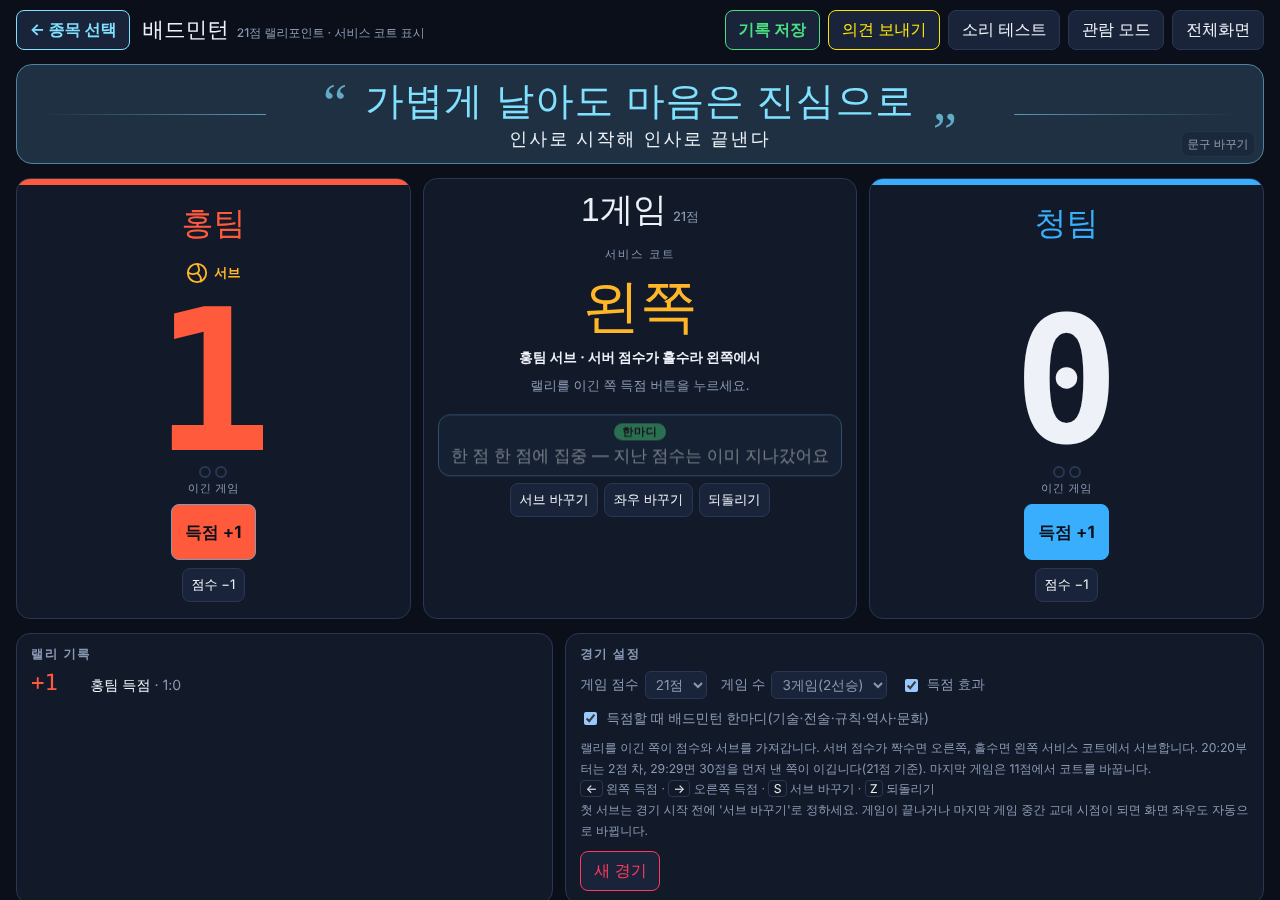
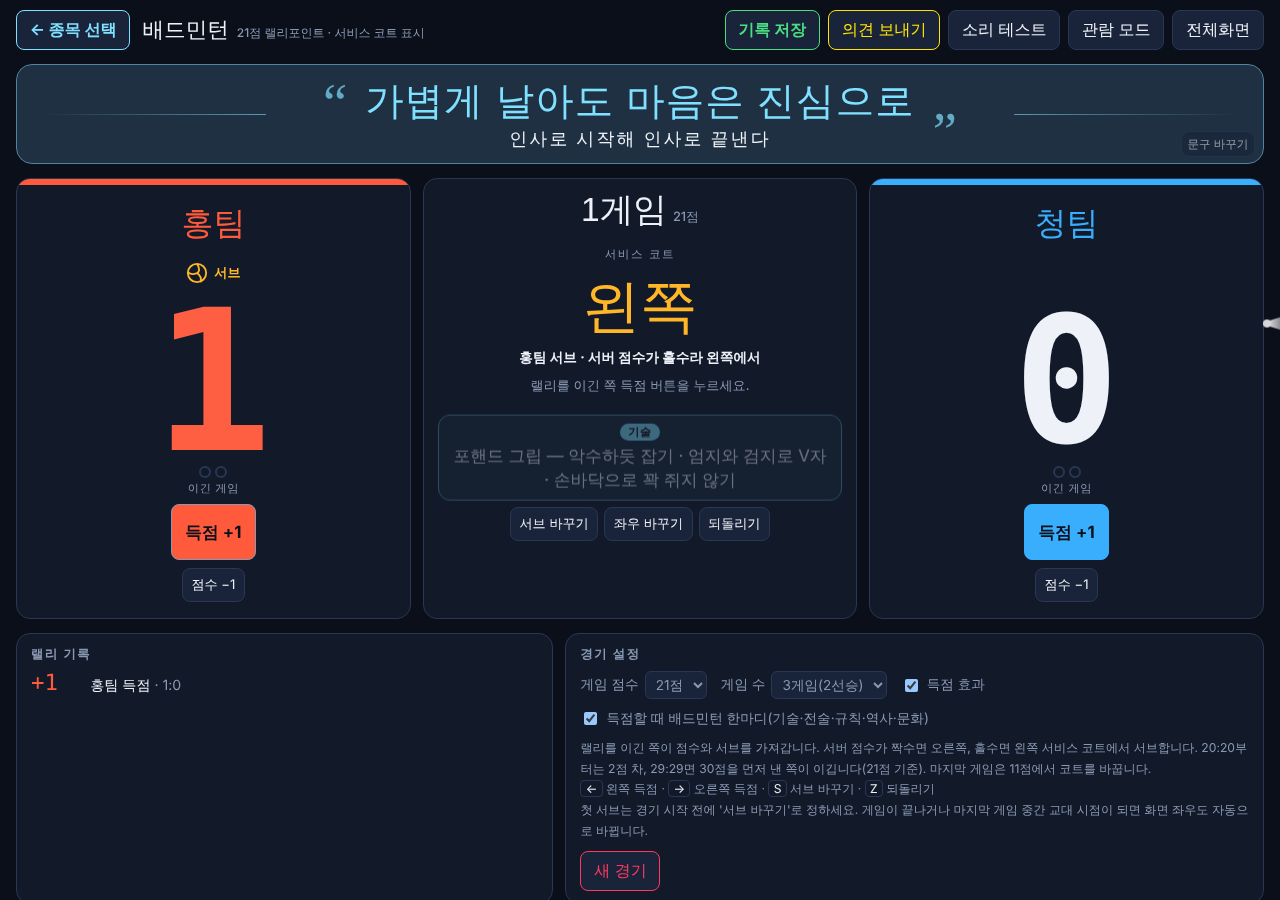
탁구 단체전 모드(기본 단·단·복·단·단, 단식 2경기까지)
Claude-Session: https://claude.ai/code/session_01KAGjHSvNARjSeVjMSGEdbz

Changed region(s): [[0.3438, 0.4667, 0.6562, 0.5911], [0.9688, 0.3422, 1.0, 0.3733]]

diff --git a/index.html b/index.html
@@ -3073,11 +3073,11 @@ return{
 function makeNet(D){
 return {name:D.name,sub:D.sub,color:D.color,
 html:`
-${D.kind==="bd"?'<div class="bdteam" id="bdTeam" hidden></div>':''}
+${D.team?'<div class="bdteam" id="bdTeam" hidden></div>':''}
 <div class="board" id="nboard">
   <section class="team" data-t="0">
     <input class="tname" id="tname0" aria-label="선수 또는 팀 이름">
-    ${D.kind==="bd"?'<div class="tpl" id="tpl0" hidden></div>':''}
+    ${D.team?'<div class="tpl" id="tpl0" hidden></div>':''}
     <div class="serve" id="serve0">${K.SERVE_SVG}<span id="servet0">서브</span></div>
     <div class="score" id="score0">0</div>
     <div class="tmeta"><div class="stat"><div class="dots" id="gm0"></div><span>이긴 게임</span></div></div>
@@ -3091,7 +3091,7 @@ ${D.kind==="bd"?'<div class="bdteam" id="bdTeam" hidden></div>':''}
     <div class="call" id="call"></div>
     <div class="callsub" id="callsub"></div>
     <div class="state" id="state"></div>
-    ${D.kind==="bd"?'<button class="go op" id="bdReveal" type="button" hidden>오더 공개</button>':''}
+    ${D.team?'<button class="go op" id="bdReveal" type="button" hidden>오더 공개</button>':''}
     ${D.tips?K.tipBox("bdTip").replace('class="bdtip"','class="bdtip" style="--tipc:'+D.color+'"'):''}
     <div class="btnrow op">
       <button class="small" id="srvBtn" type="button">서브 바꾸기</button>
@@ -3101,7 +3101,7 @@ ${D.kind==="bd"?'<div class="bdteam" id="bdTeam" hidden></div>':''}
   </section>
   <section class="team" data-t="1">
     <input class="tname" id="tname1" aria-label="선수 또는 팀 이름">
-    ${D.kind==="bd"?'<div class="tpl" id="tpl1" hidden></div>':''}
+    ${D.team?'<div class="tpl" id="tpl1" hidden></div>':''}
     <div class="serve" id="serve1">${K.SERVE_SVG}<span id="servet1">서브</span></div>
     <div class="score" id="score1">0</div>
     <div class="tmeta"><div class="stat"><div class="dots" id="gm1"></div><span>이긴 게임</span></div></div>
@@ -3127,7 +3127,7 @@ ${D.kind==="bd"?'<div class="bdteam" id="bdTeam" hidden></div>':''}
     </div>
   </div>
 </div>
-${D.kind==="bd"?'<div class="box op bdtm" id="bdTm"></div><div class="modal bdom" id="bdOrd" hidden role="dialog" aria-modal="true"><div class="card" id="bdOrdCard"></div></div>':''}`,
+${D.team?'<div class="box op bdtm" id="bdTm"></div><div class="modal bdom" id="bdOrd" hidden role="dialog" aria-modal="true"><div class="card" id="bdOrdCard"></div></div>':''}`,
 init(ctx){
 const $=K.$,R=ctx.root,KEY="pe-"+D.id,esc=K.esc;
 function fresh(cfg,names){
@@ -3146,15 +3146,15 @@ const isFinal=()=>S.gameNo===S.cfg.games;
 const cap=()=>D.kind==="bd"?S.cfg.pts+9:null;
 const sideOut=()=>D.kind==="pb"&&!S.cfg.rally;
 const switchAt=()=>D.kind==="tt"?5:D.kind==="bd"?Math.ceil(S.cfg.pts/2):Math.ceil(S.cfg.pts/2);
-/* ---------- 배드민턴: 한마디 · 단체전 · 비공개 오더 ---------- */
-const BD=D.kind==="bd";
+/* ---------- 득점 한마디 · 단체전 · 비공개 오더 (D.team이 있는 종목: 배드민턴·탁구) ---------- */
+const BD=!!D.team;
 const HASTIP=!!D.tips;
 function showTip(){
   if(!HASTIP||!K[D.tips])return;const box=$("bdTip");
   if(S.cfg.tips===false){box.hidden=true;return;}
   K.tipShow(box,D.id,K[D.tips]);
 }
-function teamNew(){return{on:true,slots:["S","D","S"],rule:"decide",blind:false,reveal:"all",ros:[K.EX10[0].slice(0,6),K.EX10[1].slice(0,6)],ord:[[],[]],sub:[false,false],shown:-1,cur:0,res:[],over:null,rid:null};}
+function teamNew(){return{on:true,slots:D.team.slots.slice(),rule:"decide",blind:false,reveal:"all",ros:[K.EX10[0].slice(0,6),K.EX10[1].slice(0,6)],ord:[[],[]],sub:[false,false],shown:-1,cur:0,res:[],over:null,rid:null};}
 const TM=()=>S.team&&S.team.on?S.team:null;
 const tNeed=T=>Math.floor(T.slots.length/2)+1;
 const tWins=T=>[0,1].map(t=>T.res.filter(r=>r.w===t).length);
@@ -3167,11 +3167,12 @@ function pnames(T,t,i){return ordOf(T,t,i).filter(Boolean).join(" · ");}
 function teamReady(){const T=TM();if(!T)return true;if(T.over)return false;
   if(!filled(T,0,T.cur)||!filled(T,1,T.cur))return T.blind?"두 팀 모두 비공개 오더를 제출해 주세요":"단체전 오더에서 이번 경기 선수를 정해 주세요";
   if(!isShown(T,T.cur))return "오더를 공개해 주세요";return true;}
+const MAXS=(D.team&&D.team.maxS)||1;
 function ordWarn(T,t){
-  const w=[],seen={S:{},D:{}};
+  const w=[],cnt={S:{},D:{}},lim={S:MAXS,D:1};
   T.slots.forEach((k,i)=>{const o=ordOf(T,t,i).filter(Boolean);
     if(k==="D"&&o.length===2&&o[0]===o[1])w.push(slotName(T,i)+"에 같은 선수가 두 번 들어갔어요");
-    o.forEach(n=>{if(seen[k][n])w.push(n+" 선수가 "+(k==="D"?"복식":"단식")+"에 두 번 나와요");seen[k][n]=1;});});
+    o.forEach(n=>{cnt[k][n]=(cnt[k][n]||0)+1;if(cnt[k][n]===lim[k]+1)w.push(n+" 선수가 "+(k==="D"?"복식":"단식")+"에 "+(lim[k]+1)+"번 나와요");});});
   return [...new Set(w)];
 }
 function ordSelects(T,t,i,src,attr){
@@ -3212,7 +3213,7 @@ function drawTeam(){
   }
   const warns=T.blind&&T.shown<0?[]:[0,1].flatMap(t=>ordWarn(T,t).map(w=>S.names[t]+": "+w));
   if(warns.length)h+="<p class=\"bdwarn\">⚠ "+warns.map(esc).join("<br>⚠ ")+"</p>";
-  h+="<p class=\"bdh\">같은 선수가 단식에 두 번, 복식에 두 번 나오면 경고만 보여 줘요(대회 규정에 맞게 조절하세요). 한 경기가 끝나면 결과 창의 '다음 경기'로 넘어가요.</p>";
+  h+="<p class=\"bdh\">같은 선수가 단식에 "+(MAXS+1)+"번 이상, 복식에 2번 이상 나오면 경고만 보여 줘요(대회 규정에 맞게 조절하세요). 한 경기가 끝나면 결과 창의 '다음 경기'로 넘어가요.</p>";
   box.innerHTML=h;
 }
 let draft=null,draftT=0;
@@ -3237,7 +3238,7 @@ function revealCur(){const T=TM();if(!T)return;snap();T.shown=T.reveal==="all"?T
   [0,1].forEach(t=>{const el=$("tpl"+t);if(el){el.classList.remove("pop");void el.offsetWidth;el.classList.add("pop");}});}
 function teamRec(){
   const T=TM();if(!T)return null;if(!T.rid)T.rid=K.newId();const W=tWins(T);
-  return{id:T.rid,sport:"bd",sportName:"배드민턴 단체전",at:Date.now(),done:!!T.over,teams:S.names.map((n,i)=>({name:n,score:W[i]})),
+  return{id:T.rid,sport:D.id,sportName:D.name+" 단체전",at:Date.now(),done:!!T.over,teams:S.names.map((n,i)=>({name:n,score:W[i]})),
     winner:T.over?S.names[T.over.w]:null,summary:W[0]+" : "+W[1],
     details:[T.slots.length+"경기("+T.slots.map((k,i)=>slotName(T,i)).join("·")+")"+(T.blind?" · 비공개 오더":"")].concat(T.res.map((r,i)=>slotName(T,i)+" "+pnames(T,0,i)+" vs "+pnames(T,1,i)+" → "+S.names[r.w]+" 승 ("+r.sc+")")),
     players:[]};
@@ -3450,10 +3451,10 @@ return{
 };
 }};
 }
-MODS.tt=makeNet({id:"tt",kind:"tt",tips:"TT_TIPS",name:"탁구",sub:"11점 · 2점 차 · 서브 2개씩 교대",color:"var(--c-tt)",
+MODS.tt=makeNet({id:"tt",kind:"tt",tips:"TT_TIPS",team:{slots:["S","S","D","S","S"],maxS:2},name:"탁구",sub:"11점 · 2점 차 · 서브 2개씩 교대",color:"var(--c-tt)",
   ptsOpts:[11,21],gameOpts:[1,3,5,7],defGames:3,defNames:["홍팀","청팀"],
   help:"서브는 2개씩 번갈아 넣고, 10:10 듀스부터는 1개씩 번갈아 넣습니다. 게임마다 첫 서브가 바뀌고, 마지막 게임은 한쪽이 5점에 도달하면 코트를 바꿉니다."});
-MODS.bd=makeNet({id:"bd",kind:"bd",tips:"BD_TIPS",name:"배드민턴",sub:"21점 랠리포인트 · 서비스 코트 표시",color:"var(--c-bd)",
+MODS.bd=makeNet({id:"bd",kind:"bd",tips:"BD_TIPS",team:{slots:["S","D","S"],maxS:1},name:"배드민턴",sub:"21점 랠리포인트 · 서비스 코트 표시",color:"var(--c-bd)",
   ptsOpts:[21,15,11],gameOpts:[1,3],defGames:3,defNames:["홍팀","청팀"],
   help:"랠리를 이긴 쪽이 점수와 서브를 가져갑니다. 서버 점수가 짝수면 오른쪽, 홀수면 왼쪽 서비스 코트에서 서브합니다. 20:20부터는 2점 차, 29:29면 30점을 먼저 낸 쪽이 이깁니다(21점 기준). 마지막 게임은 11점에서 코트를 바꿉니다."});
 MODS.pb=makeNet({id:"pb",kind:"pb",name:"피클볼",sub:"11점 · 사이드아웃 스코어링 · 점수 콜",color:"var(--c-pb)",

diff --git a/체육점수판.html b/체육점수판.html
@@ -3069,11 +3069,11 @@ return{
 function makeNet(D){
 return {name:D.name,sub:D.sub,color:D.color,
 html:`
-${D.kind==="bd"?'<div class="bdteam" id="bdTeam" hidden></div>':''}
+${D.team?'<div class="bdteam" id="bdTeam" hidden></div>':''}
 <div class="board" id="nboard">
   <section class="team" data-t="0">
     <input class="tname" id="tname0" aria-label="선수 또는 팀 이름">
-    ${D.kind==="bd"?'<div class="tpl" id="tpl0" hidden></div>':''}
+    ${D.team?'<div class="tpl" id="tpl0" hidden></div>':''}
     <div class="serve" id="serve0">${K.SERVE_SVG}<span id="servet0">서브</span></div>
     <div class="score" id="score0">0</div>
     <div class="tmeta"><div class="stat"><div class="dots" id="gm0"></div><span>이긴 게임</span></div></div>
@@ -3087,7 +3087,7 @@ ${D.kind==="bd"?'<div class="bdteam" id="bdTeam" hidden></div>':''}
     <div class="call" id="call"></div>
     <div class="callsub" id="callsub"></div>
     <div class="state" id="state"></div>
-    ${D.kind==="bd"?'<button class="go op" id="bdReveal" type="button" hidden>오더 공개</button>':''}
+    ${D.team?'<button class="go op" id="bdReveal" type="button" hidden>오더 공개</button>':''}
     ${D.tips?K.tipBox("bdTip").replace('class="bdtip"','class="bdtip" style="--tipc:'+D.color+'"'):''}
     <div class="btnrow op">
       <button class="small" id="srvBtn" type="button">서브 바꾸기</button>
@@ -3097,7 +3097,7 @@ ${D.kind==="bd"?'<div class="bdteam" id="bdTeam" hidden></div>':''}
   </section>
   <section class="team" data-t="1">
     <input class="tname" id="tname1" aria-label="선수 또는 팀 이름">
-    ${D.kind==="bd"?'<div class="tpl" id="tpl1" hidden></div>':''}
+    ${D.team?'<div class="tpl" id="tpl1" hidden></div>':''}
     <div class="serve" id="serve1">${K.SERVE_SVG}<span id="servet1">서브</span></div>
     <div class="score" id="score1">0</div>
     <div class="tmeta"><div class="stat"><div class="dots" id="gm1"></div><span>이긴 게임</span></div></div>
@@ -3123,7 +3123,7 @@ ${D.kind==="bd"?'<div class="bdteam" id="bdTeam" hidden></div>':''}
     </div>
   </div>
 </div>
-${D.kind==="bd"?'<div class="box op bdtm" id="bdTm"></div><div class="modal bdom" id="bdOrd" hidden role="dialog" aria-modal="true"><div class="card" id="bdOrdCard"></div></div>':''}`,
+${D.team?'<div class="box op bdtm" id="bdTm"></div><div class="modal bdom" id="bdOrd" hidden role="dialog" aria-modal="true"><div class="card" id="bdOrdCard"></div></div>':''}`,
 init(ctx){
 const $=K.$,R=ctx.root,KEY="pe-"+D.id,esc=K.esc;
 function fresh(cfg,names){
@@ -3142,15 +3142,15 @@ const isFinal=()=>S.gameNo===S.cfg.games;
 const cap=()=>D.kind==="bd"?S.cfg.pts+9:null;
 const sideOut=()=>D.kind==="pb"&&!S.cfg.rally;
 const switchAt=()=>D.kind==="tt"?5:D.kind==="bd"?Math.ceil(S.cfg.pts/2):Math.ceil(S.cfg.pts/2);
-/* ---------- 배드민턴: 한마디 · 단체전 · 비공개 오더 ---------- */
-const BD=D.kind==="bd";
+/* ---------- 득점 한마디 · 단체전 · 비공개 오더 (D.team이 있는 종목: 배드민턴·탁구) ---------- */
+const BD=!!D.team;
 const HASTIP=!!D.tips;
 function showTip(){
   if(!HASTIP||!K[D.tips])return;const box=$("bdTip");
   if(S.cfg.tips===false){box.hidden=true;return;}
   K.tipShow(box,D.id,K[D.tips]);
 }
-function teamNew(){return{on:true,slots:["S","D","S"],rule:"decide",blind:false,reveal:"all",ros:[K.EX10[0].slice(0,6),K.EX10[1].slice(0,6)],ord:[[],[]],sub:[false,false],shown:-1,cur:0,res:[],over:null,rid:null};}
+function teamNew(){return{on:true,slots:D.team.slots.slice(),rule:"decide",blind:false,reveal:"all",ros:[K.EX10[0].slice(0,6),K.EX10[1].slice(0,6)],ord:[[],[]],sub:[false,false],shown:-1,cur:0,res:[],over:null,rid:null};}
 const TM=()=>S.team&&S.team.on?S.team:null;
 const tNeed=T=>Math.floor(T.slots.length/2)+1;
 const tWins=T=>[0,1].map(t=>T.res.filter(r=>r.w===t).length);
@@ -3163,11 +3163,12 @@ function pnames(T,t,i){return ordOf(T,t,i).filter(Boolean).join(" · ");}
 function teamReady(){const T=TM();if(!T)return true;if(T.over)return false;
   if(!filled(T,0,T.cur)||!filled(T,1,T.cur))return T.blind?"두 팀 모두 비공개 오더를 제출해 주세요":"단체전 오더에서 이번 경기 선수를 정해 주세요";
   if(!isShown(T,T.cur))return "오더를 공개해 주세요";return true;}
+const MAXS=(D.team&&D.team.maxS)||1;
 function ordWarn(T,t){
-  const w=[],seen={S:{},D:{}};
+  const w=[],cnt={S:{},D:{}},lim={S:MAXS,D:1};
   T.slots.forEach((k,i)=>{const o=ordOf(T,t,i).filter(Boolean);
     if(k==="D"&&o.length===2&&o[0]===o[1])w.push(slotName(T,i)+"에 같은 선수가 두 번 들어갔어요");
-    o.forEach(n=>{if(seen[k][n])w.push(n+" 선수가 "+(k==="D"?"복식":"단식")+"에 두 번 나와요");seen[k][n]=1;});});
+    o.forEach(n=>{cnt[k][n]=(cnt[k][n]||0)+1;if(cnt[k][n]===lim[k]+1)w.push(n+" 선수가 "+(k==="D"?"복식":"단식")+"에 "+(lim[k]+1)+"번 나와요");});});
   return [...new Set(w)];
 }
 function ordSelects(T,t,i,src,attr){
@@ -3208,7 +3209,7 @@ function drawTeam(){
   }
   const warns=T.blind&&T.shown<0?[]:[0,1].flatMap(t=>ordWarn(T,t).map(w=>S.names[t]+": "+w));
   if(warns.length)h+="<p class=\"bdwarn\">⚠ "+warns.map(esc).join("<br>⚠ ")+"</p>";
-  h+="<p class=\"bdh\">같은 선수가 단식에 두 번, 복식에 두 번 나오면 경고만 보여 줘요(대회 규정에 맞게 조절하세요). 한 경기가 끝나면 결과 창의 '다음 경기'로 넘어가요.</p>";
+  h+="<p class=\"bdh\">같은 선수가 단식에 "+(MAXS+1)+"번 이상, 복식에 2번 이상 나오면 경고만 보여 줘요(대회 규정에 맞게 조절하세요). 한 경기가 끝나면 결과 창의 '다음 경기'로 넘어가요.</p>";
   box.innerHTML=h;
 }
 let draft=null,draftT=0;
@@ -3233,7 +3234,7 @@ function revealCur(){const T=TM();if(!T)return;snap();T.shown=T.reveal==="all"?T
   [0,1].forEach(t=>{const el=$("tpl"+t);if(el){el.classList.remove("pop");void el.offsetWidth;el.classList.add("pop");}});}
 function teamRec(){
   const T=TM();if(!T)return null;if(!T.rid)T.rid=K.newId();const W=tWins(T);
-  return{id:T.rid,sport:"bd",sportName:"배드민턴 단체전",at:Date.now(),done:!!T.over,teams:S.names.map((n,i)=>({name:n,score:W[i]})),
+  return{id:T.rid,sport:D.id,sportName:D.name+" 단체전",at:Date.now(),done:!!T.over,teams:S.names.map((n,i)=>({name:n,score:W[i]})),
     winner:T.over?S.names[T.over.w]:null,summary:W[0]+" : "+W[1],
     details:[T.slots.length+"경기("+T.slots.map((k,i)=>slotName(T,i)).join("·")+")"+(T.blind?" · 비공개 오더":"")].concat(T.res.map((r,i)=>slotName(T,i)+" "+pnames(T,0,i)+" vs "+pnames(T,1,i)+" → "+S.names[r.w]+" 승 ("+r.sc+")")),
     players:[]};
@@ -3446,10 +3447,10 @@ return{
 };
 }};
 }
-MODS.tt=makeNet({id:"tt",kind:"tt",tips:"TT_TIPS",name:"탁구",sub:"11점 · 2점 차 · 서브 2개씩 교대",color:"var(--c-tt)",
+MODS.tt=makeNet({id:"tt",kind:"tt",tips:"TT_TIPS",team:{slots:["S","S","D","S","S"],maxS:2},name:"탁구",sub:"11점 · 2점 차 · 서브 2개씩 교대",color:"var(--c-tt)",
   ptsOpts:[11,21],gameOpts:[1,3,5,7],defGames:3,defNames:["홍팀","청팀"],
   help:"서브는 2개씩 번갈아 넣고, 10:10 듀스부터는 1개씩 번갈아 넣습니다. 게임마다 첫 서브가 바뀌고, 마지막 게임은 한쪽이 5점에 도달하면 코트를 바꿉니다."});
-MODS.bd=makeNet({id:"bd",kind:"bd",tips:"BD_TIPS",name:"배드민턴",sub:"21점 랠리포인트 · 서비스 코트 표시",color:"var(--c-bd)",
+MODS.bd=makeNet({id:"bd",kind:"bd",tips:"BD_TIPS",team:{slots:["S","D","S"],maxS:1},name:"배드민턴",sub:"21점 랠리포인트 · 서비스 코트 표시",color:"var(--c-bd)",
   ptsOpts:[21,15,11],gameOpts:[1,3],defGames:3,defNames:["홍팀","청팀"],
   help:"랠리를 이긴 쪽이 점수와 서브를 가져갑니다. 서버 점수가 짝수면 오른쪽, 홀수면 왼쪽 서비스 코트에서 서브합니다. 20:20부터는 2점 차, 29:29면 30점을 먼저 낸 쪽이 이깁니다(21점 기준). 마지막 게임은 11점에서 코트를 바꿉니다."});
 MODS.pb=makeNet({id:"pb",kind:"pb",name:"피클볼",sub:"11점 · 사이드아웃 스코어링 · 점수 콜",color:"var(--c-pb)",

diff --git a/src/mod_net.js b/src/mod_net.js
@@ -2,11 +2,11 @@
 function makeNet(D){
 return {name:D.name,sub:D.sub,color:D.color,
 html:`
-${D.kind==="bd"?'<div class="bdteam" id="bdTeam" hidden></div>':''}
+${D.team?'<div class="bdteam" id="bdTeam" hidden></div>':''}
 <div class="board" id="nboard">
   <section class="team" data-t="0">
     <input class="tname" id="tname0" aria-label="선수 또는 팀 이름">
-    ${D.kind==="bd"?'<div class="tpl" id="tpl0" hidden></div>':''}
+    ${D.team?'<div class="tpl" id="tpl0" hidden></div>':''}
     <div class="serve" id="serve0">${K.SERVE_SVG}<span id="servet0">서브</span></div>
     <div class="score" id="score0">0</div>
     <div class="tmeta"><div class="stat"><div class="dots" id="gm0"></div><span>이긴 게임</span></div></div>
@@ -20,7 +20,7 @@ ${D.kind==="bd"?'<div class="bdteam" id="bdTeam" hidden></div>':''}
     <div class="call" id="call"></div>
     <div class="callsub" id="callsub"></div>
     <div class="state" id="state"></div>
-    ${D.kind==="bd"?'<button class="go op" id="bdReveal" type="button" hidden>오더 공개</button>':''}
+    ${D.team?'<button class="go op" id="bdReveal" type="button" hidden>오더 공개</button>':''}
     ${D.tips?K.tipBox("bdTip").replace('class="bdtip"','class="bdtip" style="--tipc:'+D.color+'"'):''}
     <div class="btnrow op">
       <button class="small" id="srvBtn" type="button">서브 바꾸기</button>
@@ -30,7 +30,7 @@ ${D.kind==="bd"?'<div class="bdteam" id="bdTeam" hidden></div>':''}
   </section>
   <section class="team" data-t="1">
     <input class="tname" id="tname1" aria-label="선수 또는 팀 이름">
-    ${D.kind==="bd"?'<div class="tpl" id="tpl1" hidden></div>':''}
+    ${D.team?'<div class="tpl" id="tpl1" hidden></div>':''}
     <div class="serve" id="serve1">${K.SERVE_SVG}<span id="servet1">서브</span></div>
     <div class="score" id="score1">0</div>
     <div class="tmeta"><div class="stat"><div class="dots" id="gm1"></div><span>이긴 게임</span></div></div>
@@ -56,7 +56,7 @@ ${D.kind==="bd"?'<div class="bdteam" id="bdTeam" hidden></div>':''}
     </div>
   </div>
 </div>
-${D.kind==="bd"?'<div class="box op bdtm" id="bdTm"></div><div class="modal bdom" id="bdOrd" hidden role="dialog" aria-modal="true"><div class="card" id="bdOrdCard"></div></div>':''}`,
+${D.team?'<div class="box op bdtm" id="bdTm"></div><div class="modal bdom" id="bdOrd" hidden role="dialog" aria-modal="true"><div class="card" id="bdOrdCard"></div></div>':''}`,
 init(ctx){
 const $=K.$,R=ctx.root,KEY="pe-"+D.id,esc=K.esc;
 function fresh(cfg,names){
@@ -75,15 +75,15 @@ const isFinal=()=>S.gameNo===S.cfg.games;
 const cap=()=>D.kind==="bd"?S.cfg.pts+9:null;
 const sideOut=()=>D.kind==="pb"&&!S.cfg.rally;
 const switchAt=()=>D.kind==="tt"?5:D.kind==="bd"?Math.ceil(S.cfg.pts/2):Math.ceil(S.cfg.pts/2);
-/* ---------- 배드민턴: 한마디 · 단체전 · 비공개 오더 ---------- */
-const BD=D.kind==="bd";
+/* ---------- 득점 한마디 · 단체전 · 비공개 오더 (D.team이 있는 종목: 배드민턴·탁구) ---------- */
+const BD=!!D.team;
 const HASTIP=!!D.tips;
 function showTip(){
   if(!HASTIP||!K[D.tips])return;const box=$("bdTip");
   if(S.cfg.tips===false){box.hidden=true;return;}
   K.tipShow(box,D.id,K[D.tips]);
 }
-function teamNew(){return{on:true,slots:["S","D","S"],rule:"decide",blind:false,reveal:"all",ros:[K.EX10[0].slice(0,6),K.EX10[1].slice(0,6)],ord:[[],[]],sub:[false,false],shown:-1,cur:0,res:[],over:null,rid:null};}
+function teamNew(){return{on:true,slots:D.team.slots.slice(),rule:"decide",blind:false,reveal:"all",ros:[K.EX10[0].slice(0,6),K.EX10[1].slice(0,6)],ord:[[],[]],sub:[false,false],shown:-1,cur:0,res:[],over:null,rid:null};}
 const TM=()=>S.team&&S.team.on?S.team:null;
 const tNeed=T=>Math.floor(T.slots.length/2)+1;
 const tWins=T=>[0,1].map(t=>T.res.filter(r=>r.w===t).length);
@@ -96,11 +96,12 @@ function pnames(T,t,i){return ordOf(T,t,i).filter(Boolean).join(" · ");}
 function teamReady(){const T=TM();if(!T)return true;if(T.over)return false;
   if(!filled(T,0,T.cur)||!filled(T,1,T.cur))return T.blind?"두 팀 모두 비공개 오더를 제출해 주세요":"단체전 오더에서 이번 경기 선수를 정해 주세요";
   if(!isShown(T,T.cur))return "오더를 공개해 주세요";return true;}
+const MAXS=(D.team&&D.team.maxS)||1;
 function ordWarn(T,t){
-  const w=[],seen={S:{},D:{}};
+  const w=[],cnt={S:{},D:{}},lim={S:MAXS,D:1};
   T.slots.forEach((k,i)=>{const o=ordOf(T,t,i).filter(Boolean);
     if(k==="D"&&o.length===2&&o[0]===o[1])w.push(slotName(T,i)+"에 같은 선수가 두 번 들어갔어요");
-    o.forEach(n=>{if(seen[k][n])w.push(n+" 선수가 "+(k==="D"?"복식":"단식")+"에 두 번 나와요");seen[k][n]=1;});});
+    o.forEach(n=>{cnt[k][n]=(cnt[k][n]||0)+1;if(cnt[k][n]===lim[k]+1)w.push(n+" 선수가 "+(k==="D"?"복식":"단식")+"에 "+(lim[k]+1)+"번 나와요");});});
   return [...new Set(w)];
 }
 function ordSelects(T,t,i,src,attr){
@@ -141,7 +142,7 @@ function drawTeam(){
   }
   const warns=T.blind&&T.shown<0?[]:[0,1].flatMap(t=>ordWarn(T,t).map(w=>S.names[t]+": "+w));
   if(warns.length)h+="<p class=\"bdwarn\">⚠ "+warns.map(esc).join("<br>⚠ ")+"</p>";
-  h+="<p class=\"bdh\">같은 선수가 단식에 두 번, 복식에 두 번 나오면 경고만 보여 줘요(대회 규정에 맞게 조절하세요). 한 경기가 끝나면 결과 창의 '다음 경기'로 넘어가요.</p>";
+  h+="<p class=\"bdh\">같은 선수가 단식에 "+(MAXS+1)+"번 이상, 복식에 2번 이상 나오면 경고만 보여 줘요(대회 규정에 맞게 조절하세요). 한 경기가 끝나면 결과 창의 '다음 경기'로 넘어가요.</p>";
   box.innerHTML=h;
 }
 let draft=null,draftT=0;
@@ -166,7 +167,7 @@ function revealCur(){const T=TM();if(!T)return;snap();T.shown=T.reveal==="all"?T
   [0,1].forEach(t=>{const el=$("tpl"+t);if(el){el.classList.remove("pop");void el.offsetWidth;el.classList.add("pop");}});}
 function teamRec(){
   const T=TM();if(!T)return null;if(!T.rid)T.rid=K.newId();const W=tWins(T);
-  return{id:T.rid,sport:"bd",sportName:"배드민턴 단체전",at:Date.now(),done:!!T.over,teams:S.names.map((n,i)=>({name:n,score:W[i]})),
+  return{id:T.rid,sport:D.id,sportName:D.name+" 단체전",at:Date.now(),done:!!T.over,teams:S.names.map((n,i)=>({name:n,score:W[i]})),
     winner:T.over?S.names[T.over.w]:null,summary:W[0]+" : "+W[1],
     details:[T.slots.length+"경기("+T.slots.map((k,i)=>slotName(T,i)).join("·")+")"+(T.blind?" · 비공개 오더":"")].concat(T.res.map((r,i)=>slotName(T,i)+" "+pnames(T,0,i)+" vs "+pnames(T,1,i)+" → "+S.names[r.w]+" 승 ("+r.sc+")")),
     players:[]};
@@ -379,10 +380,10 @@ return{
 };
 }};
 }
-MODS.tt=makeNet({id:"tt",kind:"tt",tips:"TT_TIPS",name:"탁구",sub:"11점 · 2점 차 · 서브 2개씩 교대",color:"var(--c-tt)",
+MODS.tt=makeNet({id:"tt",kind:"tt",tips:"TT_TIPS",team:{slots:["S","S","D","S","S"],maxS:2},name:"탁구",sub:"11점 · 2점 차 · 서브 2개씩 교대",color:"var(--c-tt)",
   ptsOpts:[11,21],gameOpts:[1,3,5,7],defGames:3,defNames:["홍팀","청팀"],
   help:"서브는 2개씩 번갈아 넣고, 10:10 듀스부터는 1개씩 번갈아 넣습니다. 게임마다 첫 서브가 바뀌고, 마지막 게임은 한쪽이 5점에 도달하면 코트를 바꿉니다."});
-MODS.bd=makeNet({id:"bd",kind:"bd",tips:"BD_TIPS",name:"배드민턴",sub:"21점 랠리포인트 · 서비스 코트 표시",color:"var(--c-bd)",
+MODS.bd=makeNet({id:"bd",kind:"bd",tips:"BD_TIPS",team:{slots:["S","D","S"],maxS:1},name:"배드민턴",sub:"21점 랠리포인트 · 서비스 코트 표시",color:"var(--c-bd)",
   ptsOpts:[21,15,11],gameOpts:[1,3],defGames:3,defNames:["홍팀","청팀"],
   help:"랠리를 이긴 쪽이 점수와 서브를 가져갑니다. 서버 점수가 짝수면 오른쪽, 홀수면 왼쪽 서비스 코트에서 서브합니다. 20:20부터는 2점 차, 29:29면 30점을 먼저 낸 쪽이 이깁니다(21점 기준). 마지막 게임은 11점에서 코트를 바꿉니다."});
 MODS.pb=makeNet({id:"pb",kind:"pb",name:"피클볼",sub:"11점 · 사이드아웃 스코어링 · 점수 콜",color:"var(--c-pb)",

diff --git a/sw.js b/sw.js
@@ -1,5 +1,5 @@
-// 태성쌤의 체육수업 점수판 · 오프라인 캐시 (버전 202610242347)
-const C="pe-board-202610242347";
+// 태성쌤의 체육수업 점수판 · 오프라인 캐시 (버전 202610242350)
+const C="pe-board-202610242350";
 const CORE=["./","index.html","manifest.webmanifest","icon-192.png","icon-512.png","apple-touch-icon.png"];
 self.addEventListener("install",e=>{e.waitUntil(caches.open(C).then(c=>c.addAll(CORE)));self.skipWaiting();});
 self.addEventListener("activate",e=>{e.waitUntil(caches.keys().then(ks=>Promise.all(ks.filter(k=>k.startsWith("pe-board-")&&k!==C).map(k=>caches.delete(k)))).then(()=>self.clients.claim()));});
